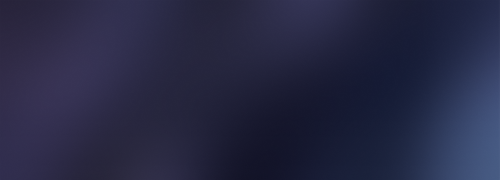
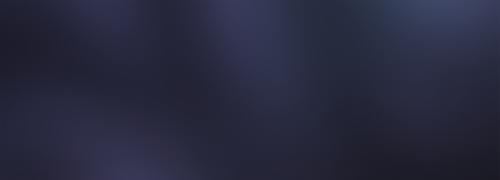
August 12 update 5

diff --git a/projects.html b/projects.html
@@ -1,11 +1,11 @@
 <head>
     <title>Projects &#8211; DerekYT (beta)</title>
     <link rel="icon" type="image/x-icon" href="assets/20260627-sitegraphic-updates.png">
-    <link rel="preconnect" href="https://fonts.googleapis.com">
-<link rel="preconnect" href="https://fonts.gstatic.com" crossorigin>
-<link href="https://fonts.googleapis.com/css2?family=Inter:ital,opsz,wght@0,14..32,100..900;1,14..32,100..900&display=swap" rel="stylesheet">
-<link rel="stylesheet" href="assets/fonts/sf-pro.css">
-<meta name="viewport" content="width=device-width, initial-scale=1.0">
+    <!-- Font information (start) -->
+    <link rel="preconnect" href="https://rsms.me/">
+    <link rel="stylesheet" href="https://rsms.me/inter/inter.css">
+    <!-- Font information (end) -->
+    <meta name="viewport" content="width=device-width, initial-scale=1.0">
     <style>
         button, input, select, textarea {
             font-family: inherit;
@@ -32,17 +32,15 @@
 
         @media (prefers-color-scheme: light) {
             body {
-                background-image:url('assets/bg-images/projects-background-desktop-light.png');
+                background-image:url('https://beta.derekyt.dev/assets/bg-images/aug-12-projects-background-desktop-light.png');
                 background-color:#ffffff;
-                color: #000000;
             }
         }
 
         @media (prefers-color-scheme: dark) {
             body {
-                background-image:url('assets/bg-images/projects-background-desktop-dark.png');
-                background-color:#0a1015;
-                color: #ffffff;
+                background-image:url('https://beta.derekyt/dev/assets/bg-images/aug-12-projects-background-desktop-dark.png');
+                background-color:#0a1015; 
             }
         }
 
@@ -50,7 +48,7 @@
             body {
                 padding-right:15px;
                 padding-left:15px;
-                background-image:url('assets/bg-images/projects-background-mobile-light.png');
+                background-image:url('https://beta.derekyt.dev/assets/bg-images/aug-12-projects-background-mobile-light.png');
             }
         }
 
@@ -58,7 +56,7 @@
             body {
                 padding-right:15px;
                 padding-left:15px;
-                background-image:url('assets/bg-images/projects-background-mobile-dark.png');
+                background-image:url('https://beta.derekyt.dev/assets/bg-images/aug-12-projects-background-mobile-dark.png');
             }
         }
 
@@ -92,7 +90,7 @@
         }
 
         .beta-label-style {
-            background-color: rgba(255, 237, 118, 0.5);
+            background-color: rgba(247, 220, 46, 0.5);
             margin-top: 20px;
             /*margin-bottom: 20px;*/
             padding:14px;
@@ -106,6 +104,7 @@
             margin-bottom:20px;
             font-size:36px;
             font-weight:500;
+            letter-spacing:-0.01em;
         }
         
         .heading-body-line-height {
